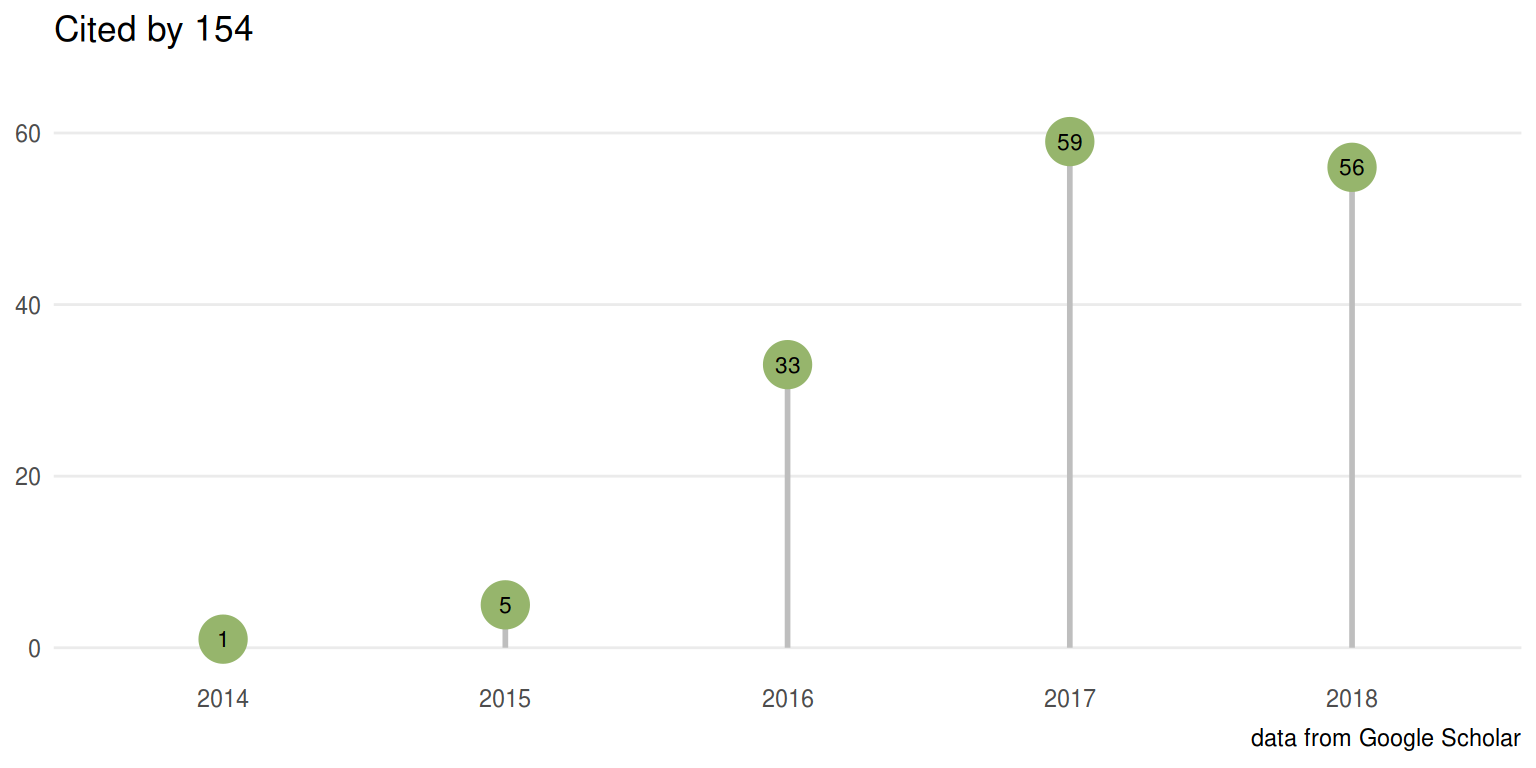
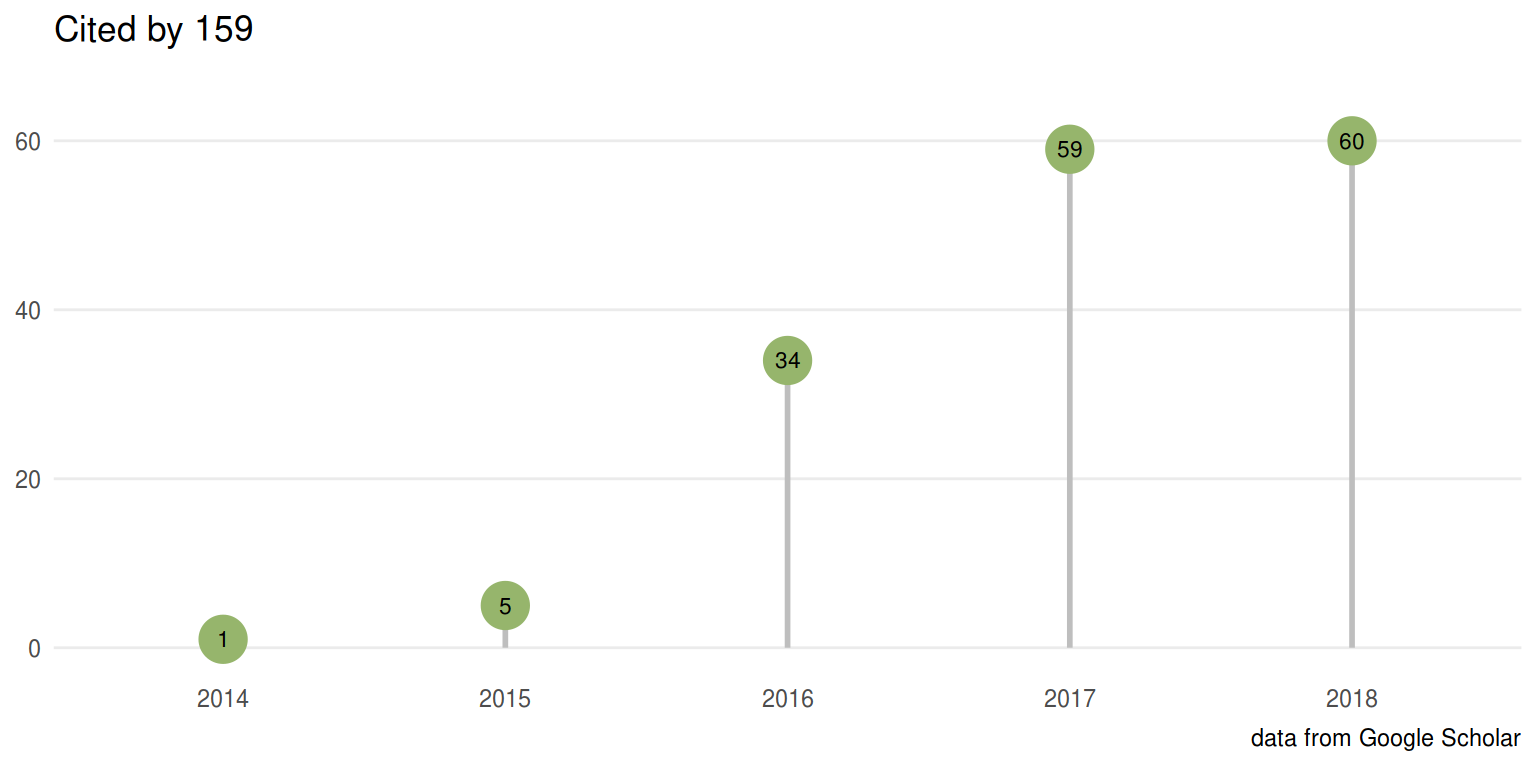
chipseeker

diff --git a/docs/ChIPseeker/index.html b/docs/ChIPseeker/index.html
@@ -10,7 +10,7 @@
     <meta name="viewport" content="width=device-width,user-scalable=no,initial-scale=1,maximum-scale=1">
     <meta http-equiv="X-UA-Compatible" content="IE=10" />
     <title>ChIPseeker</title>
-    <meta name="generator" content="Hugo 0.49" />
+    <meta name="generator" content="Hugo 0.49.2" />
 
     
     <meta name="description" content="ChIP peak Annotation, Comparison and Visualization.">
@@ -288,7 +288,7 @@
 <link rel="stylesheet" href="https://guangchuangyu.github.io/css/academicons.min.css"></p>
 <p><a href="https://bioconductor.org/packages/ChIPseeker"><img src="https://img.shields.io/badge/release%20version-1.16.1-blue.svg?style=flat" alt="releaseVersion" /></a>
 <a href="https://github.com/guangchuangyu/ChIPseeker"><img src="https://img.shields.io/badge/devel%20version-1.17.2-blue.svg?style=flat" alt="develVersion" /></a>
-<a href="https://bioconductor.org/packages/stats/bioc/ChIPseeker"><img src="https://img.shields.io/badge/downloads-27266/total-blue.svg?style=flat" alt="total" /></a>
+<a href="https://bioconductor.org/packages/stats/bioc/ChIPseeker"><img src="https://img.shields.io/badge/downloads-27456/total-blue.svg?style=flat" alt="total" /></a>
 <a href="https://bioconductor.org/packages/stats/bioc/ChIPseeker"><img src="https://img.shields.io/badge/downloads-863/month-blue.svg?style=flat" alt="month" /></a></p>
 <p>This package implements functions to retrieve the nearest genes around the peak, annotate genomic region of the peak, statstical methods for estimate the significance of overlap among ChIP peak data sets, and incorporate GEO database for user to compare their own dataset with those deposited in database. The comparison can be used to infer cooperative regulation and thus can be used to generate hypotheses. Several visualization functions are implemented to summarize the coverage of the peak experiment, average profile and heatmap of peaks binding to TSS regions, genomic annotation, distance to TSS, and overlap of peaks or genes.</p>
 <p><code>ChIPseeker</code> is released within the <a href="https://www.bioconductor.org/packages/ChIPseeker">Bioconductor</a> project and the source code is hosted on <a href="https://github.com/GuangchuangYu/ChIPseeker"><i class="fa fa-github fa-lg"></i> GitHub</a>.</p>
@@ -304,7 +304,7 @@
 <p>Please cite the following article when using <code>ChIPseeker</code>:</p>
 <p><a href="http://dx.doi.org/10.1093/bioinformatics/btv145"><img src="https://img.shields.io/badge/doi-10.1093/bioinformatics/btv145-blue.svg?style=flat" alt="doi" /></a>
 <a href="https://www.altmetric.com/details/3781087"><img src="https://img.shields.io/badge/Altmetric-34-blue.svg?style=flat" alt="Altmetric" /></a>
-<a href="https://scholar.google.com.hk/scholar?oi=bibs&amp;hl=en&amp;cites=12053363057899219488"><img src="https://img.shields.io/badge/cited%20by-154-blue.svg?style=flat" alt="citation" /></a></p>
+<a href="https://scholar.google.com.hk/scholar?oi=bibs&amp;hl=en&amp;cites=12053363057899219488"><img src="https://img.shields.io/badge/cited%20by-159-blue.svg?style=flat" alt="citation" /></a></p>
 <p><strong>Yu G</strong>, Wang LG and He QY<sup>*</sup>. ChIPseeker: an R/Bioconductor package for ChIP peak annotation, comparison and visualization. <strong><em>Bioinformatics</em></strong>, 2015, 31(14):2382-2383.</p>
 </div>
 <div id="featured-articles" class="section level2">

diff --git a/wChIPseeker/content/index.html b/wChIPseeker/content/index.html
@@ -12,7 +12,7 @@ weight: 1
 <link rel="stylesheet" href="https://guangchuangyu.github.io/css/academicons.min.css"></p>
 <p><a href="https://bioconductor.org/packages/ChIPseeker"><img src="https://img.shields.io/badge/release%20version-1.16.1-blue.svg?style=flat" alt="releaseVersion" /></a>
 <a href="https://github.com/guangchuangyu/ChIPseeker"><img src="https://img.shields.io/badge/devel%20version-1.17.2-blue.svg?style=flat" alt="develVersion" /></a>
-<a href="https://bioconductor.org/packages/stats/bioc/ChIPseeker"><img src="https://img.shields.io/badge/downloads-27266/total-blue.svg?style=flat" alt="total" /></a>
+<a href="https://bioconductor.org/packages/stats/bioc/ChIPseeker"><img src="https://img.shields.io/badge/downloads-27456/total-blue.svg?style=flat" alt="total" /></a>
 <a href="https://bioconductor.org/packages/stats/bioc/ChIPseeker"><img src="https://img.shields.io/badge/downloads-863/month-blue.svg?style=flat" alt="month" /></a></p>
 <p>This package implements functions to retrieve the nearest genes around the peak, annotate genomic region of the peak, statstical methods for estimate the significance of overlap among ChIP peak data sets, and incorporate GEO database for user to compare their own dataset with those deposited in database. The comparison can be used to infer cooperative regulation and thus can be used to generate hypotheses. Several visualization functions are implemented to summarize the coverage of the peak experiment, average profile and heatmap of peaks binding to TSS regions, genomic annotation, distance to TSS, and overlap of peaks or genes.</p>
 <p><code>ChIPseeker</code> is released within the <a href="https://www.bioconductor.org/packages/ChIPseeker">Bioconductor</a> project and the source code is hosted on <a href="https://github.com/GuangchuangYu/ChIPseeker"><i class="fa fa-github fa-lg"></i> GitHub</a>.</p>
@@ -28,7 +28,7 @@ weight: 1
 <p>Please cite the following article when using <code>ChIPseeker</code>:</p>
 <p><a href="http://dx.doi.org/10.1093/bioinformatics/btv145"><img src="https://img.shields.io/badge/doi-10.1093/bioinformatics/btv145-blue.svg?style=flat" alt="doi" /></a>
 <a href="https://www.altmetric.com/details/3781087"><img src="https://img.shields.io/badge/Altmetric-34-blue.svg?style=flat" alt="Altmetric" /></a>
-<a href="https://scholar.google.com.hk/scholar?oi=bibs&amp;hl=en&amp;cites=12053363057899219488"><img src="https://img.shields.io/badge/cited%20by-154-blue.svg?style=flat" alt="citation" /></a></p>
+<a href="https://scholar.google.com.hk/scholar?oi=bibs&amp;hl=en&amp;cites=12053363057899219488"><img src="https://img.shields.io/badge/cited%20by-159-blue.svg?style=flat" alt="citation" /></a></p>
 <p><strong>Yu G</strong>, Wang LG and He QY<sup>*</sup>. ChIPseeker: an R/Bioconductor package for ChIP peak annotation, comparison and visualization. <strong><em>Bioinformatics</em></strong>, 2015, 31(14):2382-2383.</p>
 </div>
 <div id="featured-articles" class="section level2">

diff --git a/wChIPseeker/content/featured-articles/index.html b/wChIPseeker/content/featured-articles/index.html
@@ -12,16 +12,18 @@ weight: 30
 <p><img src="/featured-articles/index_files/figure-html/citation-1.png" width="768" /></p>
 <div id="section" class="section level2">
 <h2><i class="fa fa-calendar"></i> 2018</h2>
+<p><a href="https://www.nature.com/articles/s41467-018-06665-5">PWWP2A binds distinct chromatin moieties and interacts with an MTA1-specific core NuRD complex</a>.
+<strong><em>Nature Communications</em></strong>. 2018, 9:4300.</p>
 <p><a href="https://doi.org/10.1016/j.ccell.2018.09.001">MYC Interacts with the G9a Histone Methyltransferase to Drive Transcriptional Repression and Tumorigenesis</a>.
 <strong><em>Cancer Cell</em></strong>. 2018, 34(4):579-595.</p>
 <p><a href="https://www.nature.com/articles/s41467-018-05910-1">NF-κB inhibition rescues cardiac function by remodeling calcium genes in a Duchenne muscular dystrophy model</a>.
 <strong><em>Nature Communications</em></strong>. 2018, 9:3431.</p>
 <p><a href="https://doi.org/10.1126/science.aau0294">MCM2 promotes symmetric inheritance of modified histones during DNA replication</a>.
-<strong><em>Science</em></strong>. 2018.</p>
+<strong><em>Science</em></strong>. 2018, 361(6409):1389-1392.</p>
 <p><a href="https://www.nature.com/articles/s41588-018-0190-0">Polycomb-mediated gene silencing by the BAH–EMF1 complex in plants</a>.
-<strong><em>Nature Genetics</em></strong>. 2018.</p>
+<strong><em>Nature Genetics</em></strong>. 2018, 50:1254–1261.</p>
 <p><a href="https://doi.org/10.1073/pnas.1715237115">Heterochromatin protects retinal pigment epithelium cells from oxidative damage by silencing p53 target genes</a>.
-<strong><em>PNAS</em></strong>. 2018.</p>
+<strong><em>PNAS</em></strong>. 2018, 115(17):E3987-E3995.</p>
 <p><a href="http://journals.plos.org/plospathogens/article?id=10.1371/journal.ppat.1006954">HSV-1-induced disruption of transcription termination resembles a cellular stress response but selectively increases chromatin accessibility downstream of genes</a>.
 <strong><em>PLoS pathogens</em></strong>. 2018, 14(3):e1006954.</p>
 <p><a href="https://www.nature.com/articles/s41413-018-0011-1">Enhancer variants reveal a conserved transcription factor network governed by PU.1 during osteoclast differentiation</a>.
